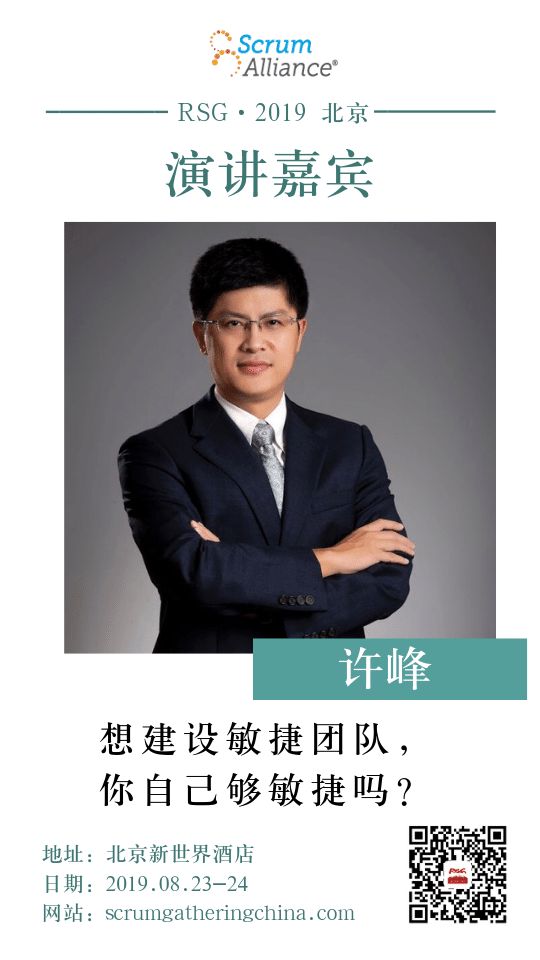
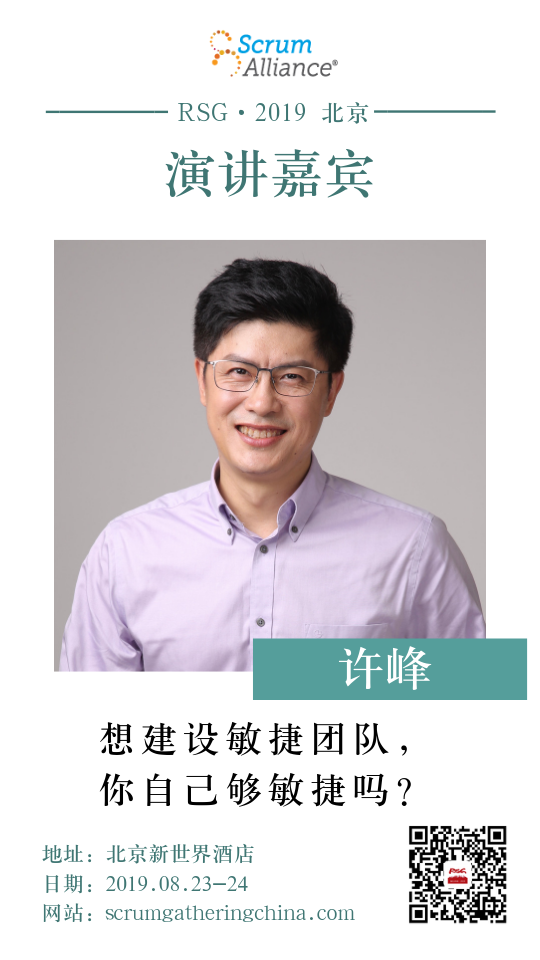
增加讲师照片

diff --git a/index.html b/index.html
@@ -266,10 +266,27 @@
                                          data-holder-rendered="true">
                                 </div>
                             </div>
-
+                            <div class="col-sm-6 col-md-4">
+                                <div class="thumbnail">
+                                    <img alt="姜信宝" src="./2019/speakers/poster/bob.png"
+                                         data-holder-rendered="true">
+                                </div>
+                            </div>
+                            <div class="col-sm-6 col-md-4">
+                                <div class="thumbnail">
+                                    <img alt="黄灵" src="./2019/speakers/poster/huangling.png"
+                                         data-holder-rendered="true">
+                                </div>
+                            </div>
                             <div class="col-sm-6 col-md-4">
                                 <div class="thumbnail">
                                     <img alt="关志光" src="./2019/speakers/poster/guanzhiguang.png"
+                                         data-holder-rendered="true">
+                                </div>
+                            </div>
+                            <div class="col-sm-6 col-md-4">
+                                <div class="thumbnail">
+                                    <img alt="谭海引" src="./2019/speakers/poster/tanhaiyin.png"
                                          data-holder-rendered="true">
                                 </div>
                             </div>
@@ -282,6 +299,12 @@
                             <div class="col-sm-6 col-md-4">
                                 <div class="thumbnail">
                                     <img alt="陈勇" src="./2019/speakers/poster/chenyong.png"
+                                         data-holder-rendered="true">
+                                </div>
+                            </div>
+                            <div class="col-sm-6 col-md-4">
+                                <div class="thumbnail">
+                                    <img alt="周仕林" src="./2019/speakers/poster/zhoushilin.png"
                                          data-holder-rendered="true">
                                 </div>
                             </div>
@@ -346,8 +369,12 @@
                                          data-holder-rendered="true">
                                 </div>
                             </div>
-
-
+                            <div class="col-sm-6 col-md-4">
+                                <div class="thumbnail">
+                                    <img alt="问静园" src="./2019/speakers/poster/wenjingyuan.png"
+                                         data-holder-rendered="true">
+                                </div>
+                            </div>
                             <div class="col-sm-6 col-md-4">
                                 <div class="thumbnail">
                                     <img alt="杨瑞" src="./2019/speakers/poster/yangrui.png"
@@ -357,6 +384,12 @@
                             <div class="col-sm-6 col-md-4">
                                 <div class="thumbnail">
                                     <img alt="张迎辉" src="./2019/speakers/poster/zhangyignhui.png"
+                                         data-holder-rendered="true">
+                                </div>
+                            </div>
+                            <div class="col-sm-6 col-md-4">
+                                <div class="thumbnail">
+                                    <img alt="马林胜" src="./2019/speakers/poster/malingsheng.png"
                                          data-holder-rendered="true">
                                 </div>
                             </div>

diff --git a/index_en.html b/index_en.html
@@ -272,7 +272,19 @@
                             </div>
                             <div class="col-sm-6 col-md-4">
                                 <div class="thumbnail">
+                                    <img alt="Lvyi" src="./2019/speakers/poster/lvyi_en.png"
+                                         data-holder-rendered="true">
+                                </div>
+                            </div>
+                            <div class="col-sm-6 col-md-4">
+                                <div class="thumbnail">
                                     <img alt="黄方" src="./2019/speakers/poster/ethan_en.png"
+                                         data-holder-rendered="true">
+                                </div>
+                            </div>
+                            <div class="col-sm-6 col-md-4">
+                                <div class="thumbnail">
+                                    <img alt="Minglan" src="./2019/speakers/poster/wangminglan_en.png"
                                          data-holder-rendered="true">
                                 </div>
                             </div>
@@ -282,7 +294,18 @@
                                          data-holder-rendered="true">
                                 </div>
                             </div>
-
+                            <div class="col-sm-6 col-md-4">
+                                <div class="thumbnail">
+                                    <img alt="Cary Bao" src="./2019/speakers/poster/carybao_en.png"
+                                         data-holder-rendered="true">
+                                </div>
+                            </div>
+                            <div class="col-sm-6 col-md-4">
+                                <div class="thumbnail">
+                                    <img alt="Juggernaut" src="./2019/speakers/poster/juggernaut_en.png"
+                                         data-holder-rendered="true">
+                                </div>
+                            </div>
                         </div>
                     </div>
                 </div>
